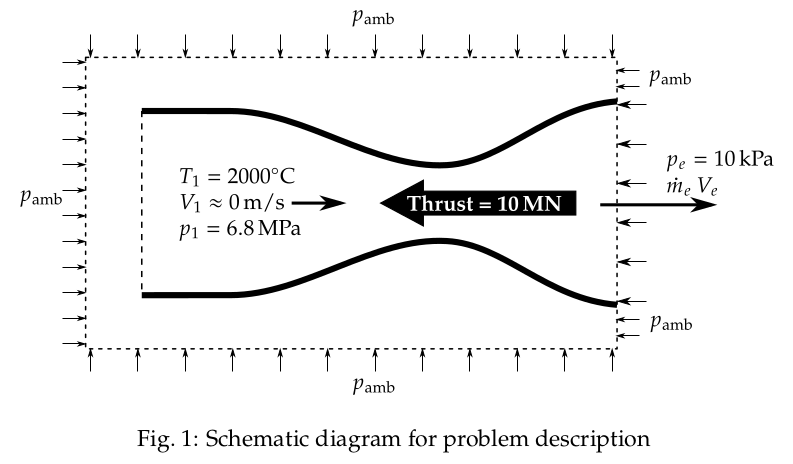
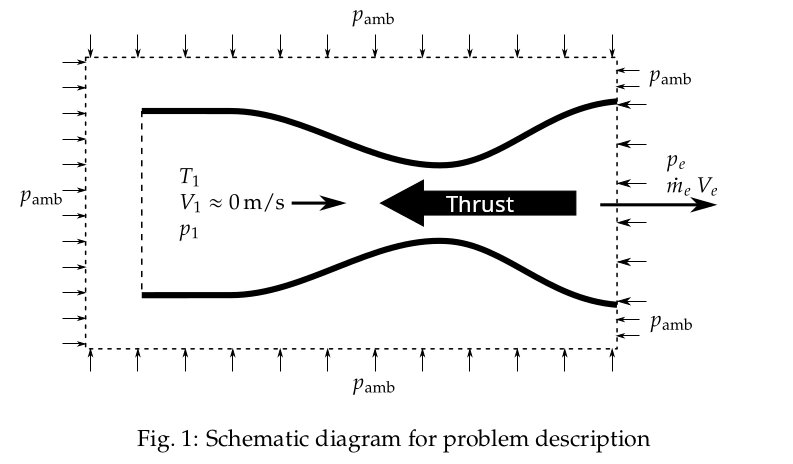
dynamic q1.12

diff --git a/cff/chap01/online/12/index.html b/cff/chap01/online/12/index.html
@@ -16,10 +16,6 @@
     <!-- Bootstrap CSS -->
     <link rel="stylesheet" href="../../../../vendor/bootstrap/css/bootstrap.min.css">
 
-    <!-- Math rendering -->
-    <script src="https://polyfill.io/v3/polyfill.min.js?features=es6"></script>
-    <script id="MathJax-script" async src="https://cdn.jsdelivr.net/npm/mathjax@3/es5/tex-mml-chtml.js"></script>
-
     <!--Font definitions-->
     <link href="https://fonts.googleapis.com/css2?family=Exo&family=Montserrat&family=Libre+Baskerville"
         rel="stylesheet">
@@ -55,26 +51,36 @@
         <hr>
         <h4>Problem 1.12:</h4>
         <div class="font1 text-justify">
-            In a hydrogen-powered rocket, hydrogen enters a nozzle at a very low velocity with a
-            temperature and pressure of 2000<sup>o</sup>C and 6.8 MPa, respectively.
-            The pressure on the exit plane of the nozzle is equal to the ambient pressure,
-            which is 10 kPa. If the required thrust is 10 MN, what hydrogen mass flow rate is required?
-            The flow through the nozzle can be assumed to be isentropic and the specific heat ratio
-            of the hydrogen can be assumed to be 1.4.
+            In a <select id="gases">
+                <option value="hydrogen">hydrogen</option>
+                <option value="methane">methane</option>
+            </select>-powered rocket, <span class="gas-out">hydrogen</span>
+            enters a nozzle at a very low velocity with a temperature and pressure of
+            <input type="number" id="T0" size="4" value="2000"><sup>o</sup>C
+            and
+            <input type="number" id="p0" size="4" value="6.8">MPa,
+            respectively. The pressure on the exit plane of the nozzle is equal to the ambient pressure, which is
+            <input type="number" id="pe" size="4" value="10">kPa.
+            If the required thrust is
+            <input type="number" id="thrust" size="4" value="10">MN,
+            what <span class="gas-out">hydrogen</span> mass flow rate is required? The flow through the nozzle can be
+            assumed to be isentropic and the specific heat ratio
+            of the <span class="gas-out">hydrogen</span> can be assumed to be
+            <span id="q-gamma">1.4</span>.
         </div>
         <br>
         <h4>Solution:</h4>
         <div class="font3">
             <p>
-                Given: \( \gamma_{h}=1.4 \) <br>
+                Given: <span id="given-gamma">\( \gamma_{h}=1.4 \)</span> <br>
                 \( V_{1}\approx 0 \),
-                \( T_{1} = T_{0} = 2000^{\circ}\,\text{C} = 2273\,\text{K} \),
-                \( p_{1}=p_{0}=6.8\,\text{MPa} \), <br>
+                <span id="given-T0">\( T_{1} = T_{0} = 2000^{\circ}\,\text{C} = 2273\,\text{K} \)</span>,
+                <span id="given-p0">\( p_{1}=p_{0}=6.8\,\text{MPa} \)</span>, <br>
 
-                \( p_{e} = p_{\text{amb}} = 10\,\text{kPa} \),
-                \( \text{Thrust} = 10\,\text{MN} \) <br><br>
+                <span id="given-pe">\( p_{e} = p_{\text{amb}} = 10\,\text{kPa} \)</span>,
+                <span id="given-thrust">\( \text{Thrust} = 10\,\text{MN} \)</span> <br><br>
 
-                To calculate: hydrogen mass flow rate?
+                To calculate: <span class="gas-out">hydrogen</span> mass flow rate?
             </p>
 
             <p>The schematic diagram of the problem description is shown in Fig. 1.</p>
@@ -83,23 +89,28 @@
             <img class="col-md-8 col-lg-6 mx-auto d-block" src="images/fig1.png" alt="Schematic diagram of problem">
             <br>
 
-            Using the molar mass of hydrogen as \( \hat{m}=2.016\,\text{kg/kmol} \) and universal
-            gas constant as \( R_{u}=8314\,\text{J/kmol-K} \), the gas constant of hydrogen can be
-            calculated as,
+            Using the molar mass of <span class="gas-out">hydrogen</span> as
+            <span id="molar-out">\( \hat{m}=2.016\,\text{kg/kmol} \)</span> and universal
+            gas constant as \( R_{u}=8314\,\text{J/kmol-K} \), the gas constant of 
+            <span class="gas-out">hydrogen</span> can be calculated as,
 
-            $$
-            R=\frac{R_{u}}{\hat{m}} = \frac{8314}{2.016} = 4124\,\text{J/kg-K}\ .
-            $$
+            <div id="R-out">
+                $$
+                R=\frac{R_{u}}{\hat{m}} = \frac{8314}{2.016} = 4124\,\text{J/kg-K}\ .
+                $$
+            </div>
 
-            The heat capacity of hydrogen at constant pressure can be calculated as,
+            The heat capacity of <span class="gas-out">hydrogen</span> at constant pressure can be calculated as,
 
             $$
             c_{p}=\frac{\gamma_{h}R}{\gamma_{h}-1}
             $$
 
-            $$
-            c_{p} = \frac{1.4\times4124}{1.4-1} = 14434\,\text{J/kg-K}\ .
-            $$
+            <div id="cp-out">
+                $$
+                c_{p} = \frac{1.4\times4124}{1.4-1} = 14434\,\text{J/kg-K}\ .
+                $$
+            </div>
 
             <!-- Ad Begin -->
             <br>
@@ -129,10 +140,11 @@
             T_{e}=T_{0}\left(\frac{p_{e}}{p_{0}}\right)^{\left(\gamma_{h}-1\right)/\gamma_{h}}
             $$
 
-            $$
-            T_{e}=2273\times\left(\frac{10\times10^{3}}{6.8\times10^{6}}\right)^{\left(1.4-1\right)/1.4}=352.623\,\text{K}\
-            .
-            $$
+            <div id="Te-out">
+                $$
+                T_{e}=2273\times\left(\frac{10\times10^{3}}{6.8\times10^{6}}\right)^{\left(1.4-1\right)/1.4}=352.623\,\text{K}\ .
+                $$
+            </div>
 
             <p>Using the conservation of energy equation,</p>
 
@@ -140,15 +152,19 @@
             c_{p}T_{0}=c_{p}T_{e}+\frac{V_{e}^{2}}{2}
             $$
 
-            $$
-            14434\times2273=14434\times352.623+\frac{V_{e}^{2}}{2}
-            $$
+            <div id="energy-eqn">
+                $$
+                14434\times2273=14434\times352.623+\frac{V_{e}^{2}}{2}
+                $$
+            </div>
 
             <p>which can be solved for exit velocity as,</p>
 
-            $$
-            V_{e}=\sqrt{2\times\left(14434\times2273-14434\times352.623\right)}=7445.6325\,\text{m/s}\ .
-            $$
+            <div id="Ve-out">
+                $$
+                V_{e}=\sqrt{2\times\left(14434\times2273-14434\times352.623\right)}=7445.6325\,\text{m/s}\ .
+                $$
+            </div>
 
             <p>Using the conservation of momentum, since the exit plane pressure is same as ambient,</p>
 
@@ -158,13 +174,17 @@
 
             <p>Therefore, the mass flow rate is,</p>
 
-            $$
-            \dot{m}_{e}=\frac{\text{Thrust}}{V_{e}}=\frac{10\times10^{6}}{7445.6325}
-            $$
+            <div id="me-eqn">
+                $$
+                \dot{m}_{e}=\frac{\text{Thrust}}{V_{e}}=\frac{10\times10^{6}}{7445.6325}
+                $$
+            </div>
 
-            $$
-            \boxed{\dot{m}_{e}=1343.07\,\text{kg/s}}\ .
-            $$
+            <div id="me-out">
+                $$
+                \boxed{\dot{m}_{e}=1343.07\,\text{kg/s}}\ .
+                $$
+            </div>
 
         </div>
 
@@ -212,6 +232,8 @@
     <!-- jQuery first, then Bootstrap JS -->
     <script src="../../../../vendor/jquery/jquery.slim.min.js"></script>
     <script src="../../../../vendor/bootstrap/js/bootstrap.min.js"></script>
+    <script id="MathJax-script" async src="https://cdn.jsdelivr.net/npm/mathjax@4/tex-mml-chtml.js"></script>
+    <script src="script-min.js"></script>
 </body>
 
 </html>

diff --git a/cff/chap01/online/12/script-min.js b/cff/chap01/online/12/script-min.js
@@ -1,0 +1,13 @@
+function c(a,b){if(!a.g||b!=a.C){if(!(a.g&&b==a.C||!["hydrogen","methane"].includes(b)||(a.C=b,b=a.C,a.g&&b==a.B||a.g&&b==a.B||!["hydrogen","methane"].includes(b)))){a.B=b;a:{switch(a.B){case "hydrogen":b=1.407;break a;case "methane":b=1.31;break a}b=void 0}a.g&&b==a.i||a.g&&b==a.i||Number.isNaN(b)||!Number.isFinite(b)||(a.i=b,b=a.i,d(a,b*a.u/(b-1)),f(a),a.L.innerText=`${a.i}`,a.U.innerHTML=`\\( \\gamma_{h}=${a.i} \\)`,h(),k(a),l(a));a:{switch(a.B){case "hydrogen":b=2.016;break a;case "methane":b=
+16.042;break a}b=void 0}a.g&&b==a.D||a.g&&b==a.D||Number.isNaN(b)||!Number.isFinite(b)||(a.D=b,b=8314/a.D,a.g&&b==a.u||a.g&&b==a.u||Number.isNaN(b)||!Number.isFinite(b)||(a.u=b,b=a.i,d(a,b*a.u/(b-1)),m(a),k(a)),a.$.innerHTML=`\\( \\hat{m}=${a.D}\\,\\text{kg/kmol} \\)`,h(),m(a));b=a.B;var e=a.S;for(const g of e)g.innerText=b}a.J.value=`${a.C}`}}
+function n(a,b){a.g&&b==a.h||(a.g&&b==a.h||Number.isNaN(b)||!Number.isFinite(b)||(b=Math.max(b,-20),b=Math.min(b,5E3),a.h=b,f(a),p(a),b=a.h,a.T.innerHTML=`\\( T_{1} = T_{0} = ${b}^{\\circ}\\,\\text{C} = ${b+273}\\,\\text{K} \\)`,h(),l(a),q(a),r(a)),a.F.value=`${a.h}`)}function t(a,b){a.g&&b==a.l||(a.g&&b==a.l||Number.isNaN(b)||!Number.isFinite(b)||(b=Math.max(b,.01),b=Math.min(b,100),a.l=b,f(a),a.V.innerHTML=`\\( p_{1}=p_{0}=${a.l}\\,\\text{MPa} \\)`,h(),l(a)),a.G.value=`${a.l}`)}
+function u(a,b){a.g&&b==a.m||(a.g&&b==a.m||Number.isNaN(b)||!Number.isFinite(b)||(b=Math.max(b,.1),b=Math.min(b,1E3),a.m=b,f(a),a.W.innerHTML=`\\( p_{e} = p_{\\text{amb}} = ${a.m}\\,\\text{kPa} \\)`,h(),l(a)),a.H.value=`${a.m}`)}function v(a,b){a.g&&b==a.j||(a.g&&b==a.j||Number.isNaN(b)||!Number.isFinite(b)||(b=Math.max(b,.1),b=Math.min(b,1E3),a.j=b,w(a,a.j*1E6/a.A),a.X.innerHTML=`\\( \\text{Thrust} = ${a.j}\\,\\text{MN} \\)`,h(),x(a)),a.I.value=`${a.j}`)}
+function f(a){var b=a.i;b=(a.h+273)*Math.pow(a.m/(a.l*1E3),(b-1)/b);a.g&&b==a.v||a.g&&b==a.v||Number.isNaN(b)||!Number.isFinite(b)||(a.v=b,p(a),l(a),q(a),r(a))}function p(a){var b=Math.sqrt(2*a.o*(a.h+273-a.v));a.g&&b==a.A||a.g&&b==a.A||Number.isNaN(b)||!Number.isFinite(b)||(a.A=b,w(a,a.j*1E6/a.A),r(a),x(a))}function d(a,b){a.g&&b==a.o||a.g&&b==a.o||Number.isNaN(b)||!Number.isFinite(b)||(a.o=b,p(a),k(a),q(a),r(a))}
+function w(a,b){a.g&&b==a.K||a.g&&b==a.K||Number.isNaN(b)||!Number.isFinite(b)||(a.K=b,a.Z.innerHTML=`$$ \\boxed{\\dot{m}_{e}=${y(a.K,6)}\\,\\text{kg/s}}\\ . $$`,h())}function m(a){a.M.innerHTML=`$$ R=\\frac{R_{u}}{\\hat{m}} = \\frac{8314}{${a.D}} = ${y(a.u,4)}\\,\\text{J/kg-K}\\ . $$`;h()}function k(a){var b=a.i,e=a.o;a.P.innerHTML=`$$ c_{p} = \\frac{${b}\\times ${y(a.u,4)}}{${b}-1} = ${y(e,6)}\\,\\text{J/kg-K}\\ . $$`;h()}
+function l(a){var b=a.i;a.N.innerHTML=`$$ T_{e}=${a.h+273}\\times\\left(\\frac{${a.m}\\times10^{3}}{${a.l}\\times10^{6}}\\right)^{\\left(${b}-1\\right)/${b}}=${y(a.v,6)}\\,\\text{K}\\ . $$`;h()}function q(a){var b=a.o,e=a.h,g=a.v;e+=273;a.R.innerHTML=`$$ ${y(b,6)}\\times ${e}=${y(b,6)}\\times ${y(g,6)}+\\frac{V_{e}^{2}}{2} $$`;h()}
+function r(a){var b=a.h,e=a.v,g=a.A,z=a.O;a=y(a.o,6);z.innerHTML=`$$ V_{e}=\\sqrt{2\\times\\left(${a}\\times${b+273}-${a}\\times${y(e,6)}\\right)}=${y(g,6)}\\,\\text{m/s}\\ . $$`;h()}function x(a){a.Y.innerHTML=`$$ \\dot{m}_{e}=\\frac{\\text{Thrust}}{V_{e}}=\\frac{${a.j}\\times10^{6}}{${y(a.A,6)}} $$`;h()}
+class A{constructor(){this.g=!1;this.J=document.getElementById("gases");this.J.addEventListener("change",()=>c(this,this.J.value));if(this.J.options.length!=2)throw Error("Number of options do not match with Gases type.");for(const a of this.J.options)if(!["hydrogen","methane"].includes(a.value))throw Error("'"+a.value+"' is not a valid option value for Gases.");this.F=document.getElementById("T0");this.F.addEventListener("change",()=>n(this,parseFloat(this.F.value)));this.F.step="1";this.F.min="-20";
+this.F.max="5000";this.G=document.getElementById("p0");this.G.addEventListener("change",()=>t(this,parseFloat(this.G.value)));this.G.step="0.01";this.G.min="0.01";this.G.max="100";this.H=document.getElementById("pe");this.H.addEventListener("change",()=>u(this,parseFloat(this.H.value)));this.H.step="0.1";this.H.min="0.1";this.H.max="1000";this.I=document.getElementById("thrust");this.I.addEventListener("change",()=>v(this,parseFloat(this.I.value)));this.I.step="0.1";this.I.min="0.1";this.I.max="1000";
+this.L=document.getElementById("q-gamma");this.U=document.getElementById("given-gamma");this.T=document.getElementById("given-T0");this.V=document.getElementById("given-p0");this.W=document.getElementById("given-pe");this.X=document.getElementById("given-thrust");this.S=document.getElementsByClassName("gas-out");this.$=document.getElementById("molar-out");this.M=document.getElementById("R-out");this.P=document.getElementById("cp-out");this.N=document.getElementById("Te-out");this.R=document.getElementById("energy-eqn");
+this.O=document.getElementById("Ve-out");this.Y=document.getElementById("me-eqn");this.Z=document.getElementById("me-out");this.B=this.C="hydrogen";this.h=2E3;this.l=6.8;this.j=this.m=10;this.i=1.4;this.D=2.016;this.u=4124;this.o=14434;this.v=352.6;this.A=7445.6;this.K=1343.07;c(this,this.C);n(this,this.h);t(this,this.l);u(this,this.m);v(this,this.j);this.g=!0}}function h(){typeof MathJax!="undefined"?MathJax.typesetPromise():console.log("MathJax not loaded yet!")}
+function y(a,b){a=a.toPrecision(Math.max(1,Math.min(21,Math.floor(b)))).toLowerCase();a.includes("e+")?a=a.replace("e+","\\times 10^{")+"}":a.includes("e")&&(a=a.replace("e","\\times 10^{")+"}");return a}new A;
